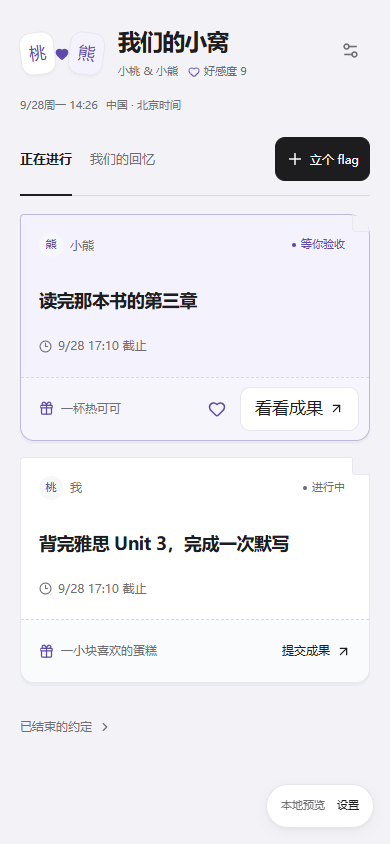
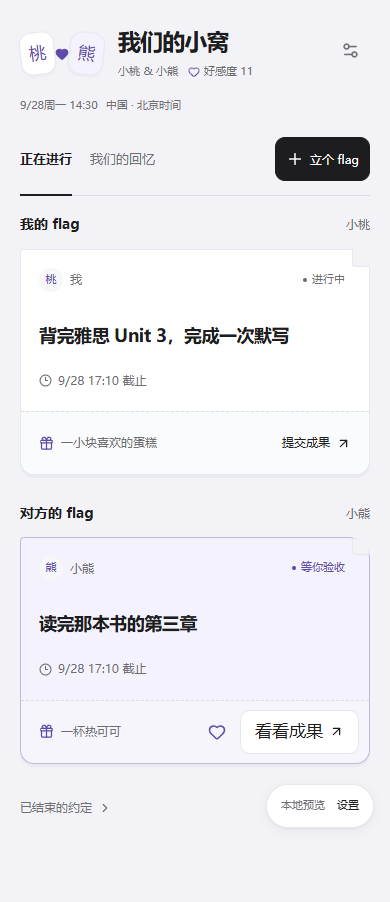
ui(together)：按执行人分开展示双方目标与回忆

diff --git a/src/features/together/flag-board.tsx b/src/features/together/flag-board.tsx
@@ -1,4 +1,4 @@
-/** @fileoverview 将待验收、双方目标放进同一便笺网格；查询仍独立分页，待验收始终排在前面。 */
+/** @fileoverview 按执行人分栏展示便笺；双方各自分页，待验收置顶于对方栏。 */
 'use client';
 import { useInfiniteQuery, useQuery } from '@tanstack/react-query';
 import { FlagTriangleRight } from 'lucide-react';
@@ -8,28 +8,81 @@ import { getAccountTimezone } from '@/lib/account-clock';
 import { useAccountTimezone } from '@/features/settings/account-timezone-provider';
 import { FlagCard } from './flag-card';
 import type { Flag, Room } from './types';
+import { memberName } from './copy';
 
-/** 无额外分组标题，所有目标采用相同的卡片结构；回忆只请求轻量的互动标记。 */
+/** 所有状态固定分为我与对方，切换身份时由当前登录者重新确定归属。 */
+export function FlagLanes({
+  room,
+  mode,
+  onOpen,
+}: {
+  room: Room;
+  mode: 'active' | 'completed' | 'cancelled';
+  onOpen: (flag: Flag) => void;
+}) {
+  const { user } = useTogether();
+  const partner = memberName(room, user === room.user_a ? room.user_b : room.user_a);
+  return (
+    <div className="together-lanes">
+      {(['mine', 'theirs'] as const).map((owner) => (
+        <section
+          className="together-lane"
+          key={owner}
+          aria-label={owner === 'mine' ? '我的 flag' : '对方的 flag'}
+        >
+          <h2 className="together-lane-heading">
+            <span>{owner === 'mine' ? '我的 flag' : '对方的 flag'}</span>
+            <small>{owner === 'mine' ? memberName(room, user) : partner}</small>
+          </h2>
+          <div className="together-lane-list">
+            {mode === 'active' && owner === 'theirs' && (
+              <FlagList room={room} mode="review" onOpen={onOpen} />
+            )}
+            <FlagList
+              room={room}
+              mode={mode === 'active' ? owner : mode}
+              owner={owner}
+              onOpen={onOpen}
+              empty={
+                mode === 'active'
+                  ? owner === 'mine'
+                    ? '立个小目标，请对方见证。'
+                    : '等 TA 立下一个小目标。'
+                  : mode === 'completed'
+                    ? '完成的目标会留在这里。'
+                    : '还没有结束的约定。'
+              }
+            />
+          </div>
+        </section>
+      ))}
+    </div>
+  );
+}
+
+/** 列内独立分页；历史查询也在服务端按执行人过滤，不在客户端截断后分组。 */
 export function FlagList({
   room,
   mode,
   empty,
   onOpen,
+  owner,
 }: {
   room: Room;
   mode: 'review' | 'mine' | 'theirs' | 'completed' | 'cancelled';
   empty?: string;
   onOpen: (flag: Flag) => void;
+  owner?: 'mine' | 'theirs';
 }) {
   const { client, cache, user } = useTogether();
   useAccountTimezone();
   const zone = getAccountTimezone();
   const query = useInfiniteQuery(
     {
-      queryKey: ['together', user, 'flags', room.id, mode],
+      queryKey: ['together', user, 'flags', room.id, mode, owner],
       initialPageParam: 0,
       queryFn: ({ pageParam, signal }) =>
-        readFlags(client!, room.id, user, mode, pageParam, signal),
+        readFlags(client!, room.id, user, mode, pageParam, signal, owner),
       getNextPageParam: (last, pages) =>
         last.length === 20 ? pages.length : undefined,
     },

diff --git a/src/features/together/panel.tsx b/src/features/together/panel.tsx
@@ -6,9 +6,9 @@ import { Heart, Plus, Settings2, ArrowLeft, ChevronRight, Link2 } from 'lucide-r
 import { getAccountTimezone } from '@/lib/account-clock';
 import { useAccountTimezone } from '@/features/settings/account-timezone-provider';
 import { useTogether } from './state';
-import { togetherCopy, memberName, address } from './copy';
+import { togetherCopy, memberName } from './copy';
 import { checkSpaceError } from './repository';
-import { FlagList } from './flag-board';
+import { FlagLanes } from './flag-board';
 import { nameMark } from './flag-card';
 import { spaceTime } from './time';
 import { SpaceClock } from './clock';
@@ -138,7 +138,6 @@ function RoomContent({ room, onSettings }: { room: Room; onSettings: () => void 
   const [ended, setEnded] = useState(false);
   const [editing, setEditing] = useState<Flag | 'new' | null>(null);
   const [detail, setDetail] = useState<Flag | null>(null);
-  const copy = togetherCopy[room.relationship];
   const partner = memberName(room, user === room.user_a ? room.user_b : room.user_a);
   const latest = useQuery(
     {
@@ -197,27 +196,7 @@ function RoomContent({ room, onSettings }: { room: Room; onSettings: () => void 
           </button>
         )}
       </div>
-      {tab === 'active' ? (
-        <div className="together-board">
-          <FlagList room={room} mode="review" onOpen={setDetail} />
-          <FlagList
-            room={room}
-            mode="mine"
-            onOpen={setDetail}
-            empty={address(copy.empty, partner)}
-          />
-          <FlagList room={room} mode="theirs" onOpen={setDetail} />
-        </div>
-      ) : (
-        <div className="together-board together-memory-board">
-          <FlagList
-            room={room}
-            mode="completed"
-            onOpen={setDetail}
-            empty="完成的每一件小事，都会留在这里。"
-          />
-        </div>
-      )}
+      <FlagLanes room={room} mode={tab} onOpen={setDetail} />
       <button
         className="together-ended-toggle"
         aria-expanded={ended}
@@ -225,16 +204,7 @@ function RoomContent({ room, onSettings }: { room: Room; onSettings: () => void 
       >
         已结束的约定 <ChevronRight size={14} />
       </button>
-      {ended && (
-        <div className="together-board">
-          <FlagList
-            room={room}
-            mode="cancelled"
-            onOpen={setDetail}
-            empty="这里还没有结束的约定。"
-          />
-        </div>
-      )}
+      {ended && <FlagLanes room={room} mode="cancelled" onOpen={setDetail} />}
       {detail && (
         <FlagDetail
           initial={detail}

diff --git a/e2e/together.spec.ts b/e2e/together.spec.ts
@@ -16,6 +16,15 @@ test('微信成果、对方验收、昵称与本地时区', async ({ page }) => 
     page.getByRole('heading', { name: '我们的小窝', exact: true }),
   ).toBeVisible();
   await expect(page.locator('.together-clock')).toContainText('北京时间');
+  await expect(
+    page.getByRole('region', { name: '我的 flag', exact: true }),
+  ).toContainText('背完雅思 Unit 3');
+  await expect(
+    page.getByRole('region', { name: '我的 flag', exact: true }),
+  ).not.toContainText('读完那本书的第三章');
+  await expect(
+    page.getByRole('region', { name: '对方的 flag', exact: true }),
+  ).toContainText('读完那本书的第三章');
   await page.getByRole('button', { name: '立个 flag', exact: true }).click();
   const editor = page.getByRole('dialog', { name: '立个 flag' });
   const title = `浏览器验收 ${Date.now()}`;
@@ -40,6 +49,12 @@ test('微信成果、对方验收、昵称与本地时区', async ({ page }) => 
     .click();
   await choosePreview(page, '查看身份', '1');
   await expect(page.locator('.together-clock')).toContainText('纽约');
+  await expect(
+    page.getByRole('region', { name: '对方的 flag', exact: true }),
+  ).toContainText(title);
+  await expect(
+    page.getByRole('region', { name: '我的 flag', exact: true }),
+  ).not.toContainText(title);
   await page.getByRole('button', { name: title, exact: true }).click();
   await expect(page.getByRole('dialog')).toContainText('10:00');
   await page

diff --git a/src/features/together/together.css b/src/features/together/together.css
@@ -195,11 +195,39 @@
   right: 0;
   animation: together-tab 180ms ease-out;
 }
-.together-board {
+.together-lanes {
   display: grid;
   grid-template-columns: repeat(2, minmax(0, 1fr));
   gap: 18px;
   align-items: start;
+}
+.together-lane {
+  min-width: 0;
+}
+.together-lane-heading {
+  display: flex;
+  align-items: baseline;
+  justify-content: space-between;
+  gap: 12px;
+  margin: 0 0 14px;
+  font-size: 14px;
+  font-weight: 600;
+}
+.together-lane-heading small {
+  font-size: 12px;
+  font-weight: 400;
+  overflow: hidden;
+  text-overflow: ellipsis;
+  white-space: nowrap;
+}
+.together-lane-list {
+  display: grid;
+  gap: 18px;
+}
+/* 对方栏同时读取待验收与进行中，存在任一目标或加载反馈时不显示空状态。 */
+.together-lane-list:has(.together-note, [role='status'], [role='alert'])
+  > .together-board-empty {
+  display: none;
 }
 .together-note {
   position: relative;
@@ -824,9 +852,9 @@
   .together-heading-text {
     padding-right: 32px;
   }
-  .together-board {
+  .together-lanes {
     grid-template-columns: minmax(0, 1fr);
-    gap: 16px;
+    gap: 28px;
   }
   .together-tabs {
     gap: 18px;

diff --git a/src/features/together/repository.ts b/src/features/together/repository.ts
@@ -125,6 +125,7 @@ export async function readFlags(
   mode: 'review' | 'mine' | 'theirs' | 'completed' | 'cancelled',
   page: number,
   signal?: AbortSignal,
+  owner?: 'mine' | 'theirs',
 ): Promise<Flag[]> {
   let query = client.from('together_flags').select('*').eq('room_id', room);
   if (mode === 'review') query = query.eq('status', 'submitted').neq('owner_id', user);
@@ -133,6 +134,8 @@ export async function readFlags(
   else if (mode === 'theirs')
     query = query.in('status', ['active', 'changes']).neq('owner_id', user);
   else query = query.eq('status', mode);
+  if (owner === 'mine') query = query.eq('owner_id', user);
+  if (owner === 'theirs') query = query.neq('owner_id', user);
   query = query
     .order(mode === 'completed' ? 'completed_at' : 'created_at', { ascending: false })
     .order('id')

diff --git a/docs/together-space.md b/docs/together-space.md
@@ -8,13 +8,13 @@
 
 2026-09-28，用户将原图片上传方案改为：**成果图片通过微信发送，执行人在 Threadline 勾选「已通过微信发送成果」，对方验收后才完成。** 应用不接入微信 API、不读取微信内容，不创建附件表或 Storage bucket。额外惊喜记录文字，照片仍通过微信发送。
 
-主页只有正在进行与我们的回忆。待我验收、我的目标、对方的目标按此顺序进入同一个便笺网格，数据仍分别分页。设置收纳称呼、关系变更、解除和旧空间。既有任务、习惯与投入统计不读取两人空间数据。
+主页只有正在进行与我们的回忆。进行中、回忆和已结束记录都按执行人分为「我的 flag」「对方的 flag」；桌面左右并排、手机上下排列，各栏独立分页。待我验收的目标置顶于对方栏。设置收纳称呼、关系变更、解除和旧空间。既有任务、习惯与投入统计不读取两人空间数据。
 
 ## 页面构图与互动
 
 页头把双人印记、空间名、称呼、好感度合在一起，右侧显示查看者本地时间与设置。删去常驻口号与重复说明；对方修改称呼时只提供可展开的轻提示。
 
-目标卡片就是完整的操作单元：作者与状态在上，目标居中，短日期在下；底部虚线分隔文字奖励和当前操作。桌面两列、手机单列，不再给每个人另起一段大标题。完整日期与时区保留在详情与时间悬停说明里。
+目标卡片就是完整的操作单元：作者与状态在上，目标居中，短日期在下；底部虚线分隔文字奖励和当前操作。桌面两栏各自纵向排列，手机先我后对方；栏头仅保留「我的 flag / 对方的 flag」和昵称，长昵称截断展示，避免重新堆满说明。完整日期与时区保留在详情与时间悬停说明里。
 
 两个略微相向的名字印记用心形或连接符连接，目标卡带小折角，奖励区像一张小票，回忆卡保留见证印记和惊喜入口。对方的未完成目标可直接点心形加油，成功后显示反馈并禁用重复发送；服务端计分规则不变。悬停、页签和心形反馈尊重减少动态效果。
 
@@ -80,17 +80,17 @@ PGlite 验证 SQL、RLS 和事务业务规则，但单连接引擎不能替代 S
 
 ## 2026-09-28 本地验收记录
 
-| 检查                                   | 结果与边界                                                                                                                                                   |
-| -------------------------------------- | ------------------------------------------------------------------------------------------------------------------------------------------------------------ |
-| 类型检查、lint、SQL 静态约束、文案同步 | 通过；lint 排除独立预览的生成目录                                                                                                                            |
-| 全量单元测试与覆盖率                   | 85 文件、421 项通过；既有覆盖率门槛通过（统计范围由 vitest.config.ts 定义，不代表新增领域全量覆盖率）                                                        |
-| 原始迁移 / RLS / RPC                   | PGlite 的 34 项检查通过：第三方隔离、拒绝自审、幂等、补充记录、计分、结束与新对象隔离等                                                                      |
-| 浏览器实际界面                         | 5 项通过；新增卡片一键加油且不重复计分；四主题 × 深浅色 × 1366/390/320 宽度无横向溢出；默认主题主页 axe 无违规；另验长昵称、错误修正、Esc 焦点和减少动态效果 |
-| 时区                                   | 北京 2026-10-01 22:00 的截止，纽约查看为 10:00；账号跨日默认截止、夏令时重复/缺失时间和首次提交判定有单测                                                    |
-| Web 生产构建                           | 通过，nonce CSP 校验通过；生产服务 `/together-preview` 实测 404                                                                                              |
-| Electron renderer 静态构建             | 通过，生成 CSP manifest 并通过构建边界校验，输出不含 Web 预览路由；未打包安装器                                                                              |
-| 真实 Supabase 多会话 / Auth / Realtime | 本机 Docker 未运行；原始实现提交 469f541 已通过 GitHub CI 的真实 Supabase 并发与 Realtime 集成，本轮未改后端                                                 |
-| 真机 iPhone 与正式环境                 | 未执行；未迁移生产数据库、未发布、未合并                                                                                                                     |
+| 检查                                   | 结果与边界                                                                                                                                                                           |
+| -------------------------------------- | ------------------------------------------------------------------------------------------------------------------------------------------------------------------------------------ |
+| 类型检查、lint、SQL 静态约束、文案同步 | 通过；lint 排除独立预览的生成目录                                                                                                                                                    |
+| 全量单元测试与覆盖率                   | 85 文件、421 项通过；既有覆盖率门槛通过（统计范围由 vitest.config.ts 定义，不代表新增领域全量覆盖率）                                                                                |
+| 原始迁移 / RLS / RPC                   | PGlite 的 34 项检查通过：第三方隔离、拒绝自审、幂等、补充记录、计分、结束与新对象隔离等                                                                                              |
+| 浏览器实际界面                         | 5 项通过；新增卡片一键加油且不重复计分；切换身份后归属分栏正确；四主题 × 深浅色 × 1366/390/320 宽度无横向溢出；默认主题主页 axe 无违规；另验长昵称、错误修正、Esc 焦点和减少动态效果 |
+| 时区                                   | 北京 2026-10-01 22:00 的截止，纽约查看为 10:00；账号跨日默认截止、夏令时重复/缺失时间和首次提交判定有单测                                                                            |
+| Web 生产构建                           | 通过，nonce CSP 校验通过；生产服务 `/together-preview` 实测 404                                                                                                                      |
+| Electron renderer 静态构建             | 通过，生成 CSP manifest 并通过构建边界校验，输出不含 Web 预览路由；未打包安装器                                                                                                      |
+| 真实 Supabase 多会话 / Auth / Realtime | 本机 Docker 未运行；原始实现提交 469f541 已通过 GitHub CI 的真实 Supabase 并发与 Realtime 集成，本轮未改后端                                                                         |
+| 真机 iPhone 与正式环境                 | 未执行；未迁移生产数据库、未发布、未合并                                                                                                                                             |
 
 浏览器闭环记录：小桃（北京）创建目标 → 勾选微信已发并提交说明 → 小熊（纽约）要求补充 → 小桃再次声明 → 小熊验收并留言 → 小熊发送文字惊喜 → 回忆出现完成记录。另用两个未绑定身份走完好友邀请、昵称设置与恢复、双方确认切换情侣、解除绑定。该浏览器身份由本地测试桥提供；真实 Auth / Realtime 已在 [原始实现 CI](https://github.com/Doris619619/Threadline/actions/runs/36381547256) 单独通过。
 

diff --git a/docs/together-copy.md b/docs/together-copy.md
@@ -62,9 +62,11 @@
 | 待验收                                                                       | copy.ts                                                     |
 | 当前离线，输入已保留，请联网后重试。                                         | state.tsx                                                   |
 | 的 flag ·                                                                    | flag-detail.tsx                                             |
+| 等 TA 立下一个小目标。                                                       | flag-board.tsx                                              |
 | 等待 TA 验收                                                                 | copy.ts                                                     |
 | 等你验收                                                                     | flag-card.tsx                                               |
 | 第一个小目标，想请对方见证什么？                                             | copy.ts                                                     |
+| 对方的 flag                                                                  | flag-board.tsx                                              |
 | 对方的邀请码                                                                 | binding.tsx                                                 |
 | 对方送来了一份额外奖励。                                                     | copy.ts                                                     |
 | 对方想绑定为${relationshipLabel[room.proposed_relationship!]}                | settings.tsx                                                |
@@ -83,6 +85,7 @@
 | 关系已结束                                                                   | supabase/migrations/202609280001_together.sql               |
 | 关系已结束，记录仅原成员可见                                                 | supabase/migrations/202609280001_together.sql               |
 | 还差一点点，再给我看看嘛。                                                   | copy.ts                                                     |
+| 还没有结束的约定。                                                           | flag-board.tsx                                              |
 | 还没有以前的空间。                                                           | settings.tsx                                                |
 | 好感度                                                                       | panel.tsx                                                   |
 | 好感度 +                                                                     | flag-detail.tsx                                             |
@@ -113,6 +116,7 @@
 | 空间设置                                                                     | panel.tsx、settings.tsx                                     |
 | 空间展示名，不使用邮箱                                                       | binding.tsx                                                 |
 | 立个 flag                                                                    | flag-editor.tsx、panel.tsx                                  |
+| 立个小目标，请对方见证。                                                     | flag-board.tsx                                              |
 | 立下 flag                                                                    | flag-detail.tsx、flag-editor.tsx                            |
 | 立于                                                                         | flag-detail.tsx                                             |
 | 例如：完成默写，正确率达到 90%                                               | flag-editor.tsx                                             |
@@ -160,10 +164,11 @@
 | 送来鼓励                                                                     | flag-detail.tsx                                             |
 | 送来小惊喜                                                                   | flag-detail.tsx                                             |
 | 提交成果                                                                     | copy.ts、flag-card.tsx                                      |
-| 完成的每一件小事，都会留在这里。                                             | panel.tsx                                                   |
+| 完成的目标会留在这里。                                                       | flag-board.tsx                                              |
 | 完成后的奖励                                                                 | flag-detail.tsx、flag-editor.tsx                            |
 | 晚一点没关系，我还在等你把它做好给我看。                                     | copy.ts                                                     |
 | 我                                                                           | flag-card.tsx                                               |
+| 我的 flag                                                                    | flag-board.tsx                                              |
 | 我看见啦，真的很棒 ❤                                                        | copy.ts                                                     |
 | 我们的关系                                                                   | binding.tsx                                                 |
 | 我们的回忆                                                                   | panel.tsx                                                   |
@@ -206,7 +211,6 @@
 | 这个时间无效，或在夏令时切换时出现两次；请换一个明确的时间。                 | time.ts                                                     |
 | 这件事的过程                                                                 | flag-detail.tsx                                             |
 | 这件事完成了，对方见证了你的努力。                                           | copy.ts                                                     |
-| 这里还没有结束的约定。                                                       | panel.tsx                                                   |
 | 这项操作已经完成，请刷新查看。                                               | repository.ts                                               |
 | 这一步需要对方来完成。                                                       | repository.ts                                               |
 | 正在保存…                                                                    | binding.tsx、dialog.tsx                                     |

diff --git a/README.md b/README.md
@@ -90,7 +90,7 @@ pnpm dev
 
 ## 文档导航
 
-两人空间支持唯一对象绑定、好友/情侣称呼、单人 flag、微信成果声明、对方验收和文字惊喜。目标集中展示为便笺卡片，卡上可直接为对方加油；每个人看到自己的账号时区，页头显示本地时间。启用前需应用新增数据库迁移；详见 [两人空间设计与部署](docs/together-space.md)、[完整话术清单](docs/together-copy.md)。
+两人空间支持唯一对象绑定、好友/情侣称呼、单人 flag、微信成果声明、对方验收和文字惊喜。目标按「我的 flag / 对方的 flag」分栏展示为便笺卡片，卡上可直接为对方加油；每个人看到自己的账号时区，页头显示本地时间。启用前需应用新增数据库迁移；详见 [两人空间设计与部署](docs/together-space.md)、[完整话术清单](docs/together-copy.md)。
 
 | 想了解什么               | 从这里开始                                                                                                          |
 | :----------------------- | :------------------------------------------------------------------------------------------------------------------ |
